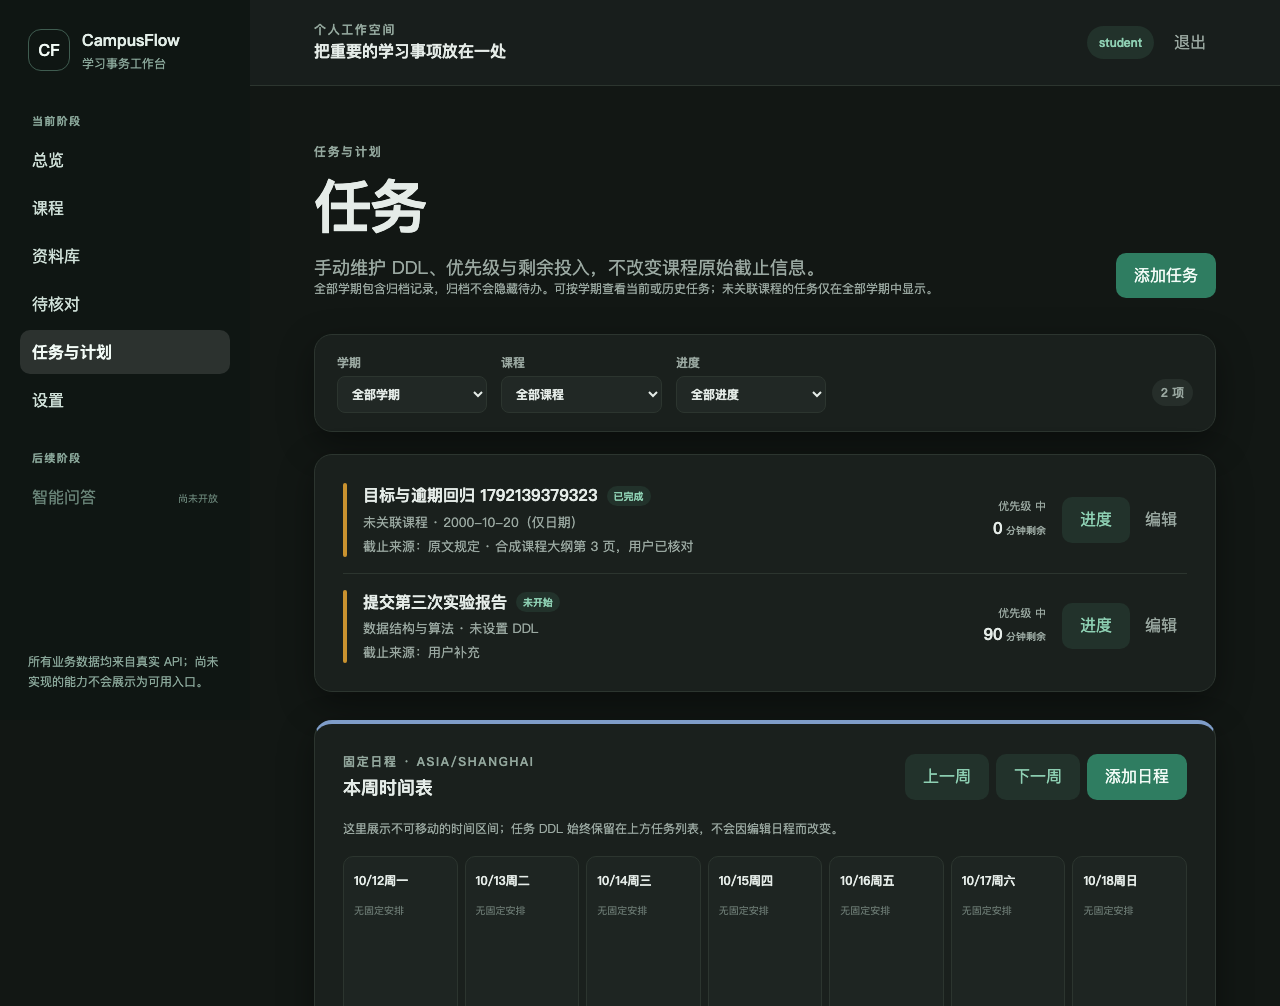
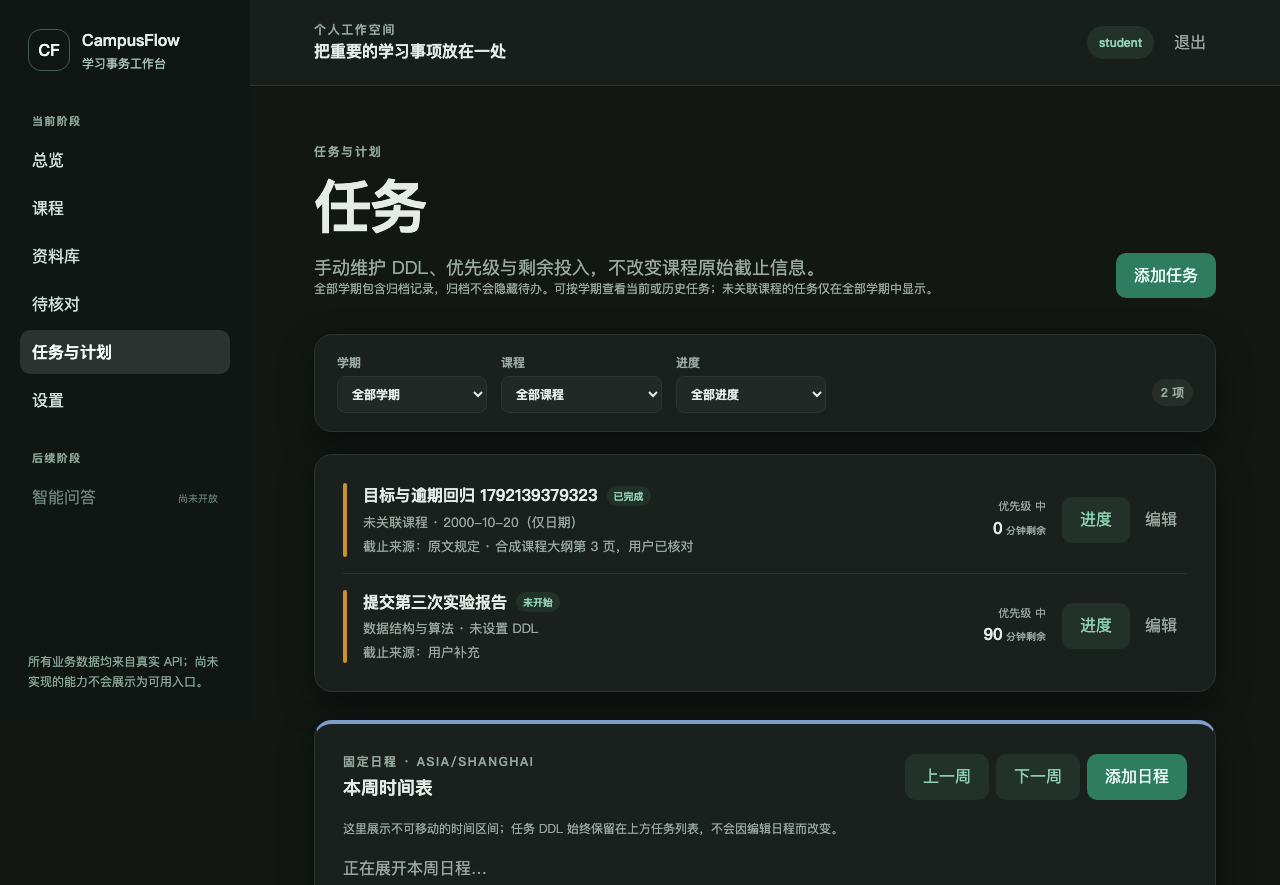
fix(U011): 保留浅色原始取值，拆分被并入的 6 处近似色
机械比对 develop 原 styles.css 的 60 个颜色字面量后，发现 6 处近似色被并入共享
token 会改变浅色观感（尤其失败态 #a83225 与 #814835 差异明显）。新增
--brand-mark-border/--sidebar-brand-sub/--surface-segmented/--warn-strong-ink/
--danger-strong-ink/--danger-bg-button 六个 token 并回填，浅色取值恢复与原文逐字一致。
同时按新配色重生成深色截图。

diff --git a/frontend/src/styles.css b/frontend/src/styles.css
@@ -68,10 +68,18 @@
   --sidebar-ink: #eef6f1;
   --sidebar-item: #dcebe5;
   --sidebar-muted: #91ada2;
+  --sidebar-brand-sub: #abc2b9;
   --sidebar-disabled: #78968a;
   --sidebar-border: #83a597;
   --sidebar-hover: rgba(255, 255, 255, .07);
   --sidebar-active: rgba(255, 255, 255, .13);
+
+  /* 以下 token 用于保留原本各自独立的少量色值，避免并入近似色后改变浅色观感。 */
+  --brand-mark-border: #85a79a;
+  --surface-segmented: #f4f6f1;
+  --warn-strong-ink: #8a5a12;
+  --danger-strong-ink: #a83225;
+  --danger-bg-button: #fff1ec;
 }
 
 :root[data-theme="dark"] {
@@ -134,10 +142,17 @@
   --sidebar-ink: #e3eee8;
   --sidebar-item: #cfe0d8;
   --sidebar-muted: #8aa79a;
+  --sidebar-brand-sub: #a8c3b8;
   --sidebar-disabled: #6a8579;
   --sidebar-border: #3f5c50;
   --sidebar-hover: rgba(255, 255, 255, .06);
   --sidebar-active: rgba(255, 255, 255, .12);
+
+  --brand-mark-border: #4e7a68;
+  --surface-segmented: #232b27;
+  --warn-strong-ink: #e0b56a;
+  --danger-strong-ink: #f19d84;
+  --danger-bg-button: #2f1f19;
 }
 
 * { box-sizing: border-box; }
@@ -150,7 +165,7 @@ a { color: inherit; }
 .brand { display: flex; gap: 12px; align-items: center; text-decoration: none; margin: 0 8px 40px; }
 .brand-mark { display: grid; place-items: center; width: 42px; height: 42px; border: 1px solid var(--sidebar-border); border-radius: 13px; font-weight: 800; color: var(--on-brand-fill); }
 .brand strong, .brand small { display: block; }
-.brand small { color: var(--sidebar-muted); font-size: 12px; }
+.brand small { color: var(--sidebar-brand-sub); font-size: 12px; }
 .nav-label { margin: 0 12px 8px; color: var(--sidebar-muted); font-size: 11px; font-weight: 800; letter-spacing: .12em; }
 .nav-label-spaced { margin-top: 28px; }
 .nav-item { min-height: 44px; display: flex; align-items: center; justify-content: space-between; gap: 8px; margin: 4px 0; padding: 9px 12px; border-radius: 10px; text-decoration: none; color: var(--sidebar-item); }
@@ -194,7 +209,7 @@ button:focus-visible, a:focus-visible { outline: 3px solid var(--accent); outlin
 .login-card input { width: 100%; padding: 11px 12px; border: 1px solid var(--line-strong); border-radius: 9px; color: var(--ink); background: var(--paper-strong); }
 .login-card input:focus { outline: 3px solid var(--focus-ring); border-color: var(--brand); }
 .login-brand { display: flex; align-items: center; gap: 10px; margin-bottom: 32px; color: var(--brand); }
-.login-brand .brand-mark { color: var(--brand); border-color: var(--brand-border); }
+.login-brand .brand-mark { color: var(--brand); border-color: var(--brand-mark-border); }
 .inline-notice { padding: 10px 12px; border-radius: 8px; color: var(--warn-ink); background: var(--warn-bg-soft); }
 .form-error { margin: 0; color: var(--danger); font-size: 14px; }
 .two-column-layout { display: grid; grid-template-columns: minmax(0, 1.35fr) minmax(280px, .65fr); gap: 22px; }
@@ -246,7 +261,7 @@ button:focus-visible, a:focus-visible { outline: 3px solid var(--accent); outlin
 .task-title-line h3 { margin: 0; font-size: 16px; }
 .task-main p { margin: 3px 0 0; color: var(--muted); font-size: 13px; }
 .status-pill { padding: 2px 7px; border-radius: 999px; color: var(--brand); background: var(--brand-soft); font-size: 10px; font-weight: 800; }
-.overdue-pill { color: var(--danger-ink-soft); background: var(--danger-bg-soft); }
+.overdue-pill { color: var(--danger-strong-ink); background: var(--danger-bg-soft); }
 .task-meta { min-width: 108px; display: grid; text-align: right; }
 .task-meta span { color: var(--muted); font-size: 11px; }
 .task-meta strong { font-size: 16px; }
@@ -276,7 +291,7 @@ button:focus-visible, a:focus-visible { outline: 3px solid var(--accent); outlin
 .definition-list article { display: flex; align-items: center; justify-content: space-between; padding: 9px 0; border-bottom: 1px solid var(--line); }
 .definition-list article span { display: flex; align-items: center; gap: 8px; }
 .definition-list small { color: var(--muted); }
-.danger-button { padding: 7px 10px; color: var(--danger); background: var(--danger-bg-soft); }
+.danger-button { padding: 7px 10px; color: var(--danger); background: var(--danger-bg-button); }
 .settings-layout { grid-template-columns: repeat(2, minmax(0, 1fr)); }
 .success-message { margin: 0; color: var(--brand); font-size: 13px; }
 .availability-grid { display: grid; grid-template-columns: repeat(auto-fill, minmax(200px, 1fr)); gap: 10px; }
@@ -322,7 +337,7 @@ button:focus-visible, a:focus-visible { outline: 3px solid var(--accent); outlin
 .status-banner.success { color: var(--brand); background: var(--brand-soft); }
 .status-banner.failed { color: var(--danger-ink-soft); background: var(--danger-bg); }
 .status-banner.failed p { color: var(--danger-ink-soft); }
-.segmented { display: inline-flex; gap: 4px; padding: 4px; border: 1px solid var(--line); border-radius: 999px; background: var(--surface-soft); }
+.segmented { display: inline-flex; gap: 4px; padding: 4px; border: 1px solid var(--line); border-radius: 999px; background: var(--surface-segmented); }
 .segmented-item { padding: 7px 14px; border-radius: 999px; color: var(--muted); background: transparent; font-size: 13px; font-weight: 700; }
 .segmented-item.is-active { color: var(--on-brand-fill); background: var(--brand-fill); }
 .upload-results { display: grid; gap: 8px; margin: 18px 0 0; padding: 0; list-style: none; }
@@ -338,8 +353,8 @@ button:focus-visible, a:focus-visible { outline: 3px solid var(--accent); outlin
 .coverage-box.failed { border-color: var(--danger-border); border-left-color: var(--danger); background: var(--danger-bg); }
 .coverage-box.failed p { color: var(--danger-ink-soft); }
 .status-pill[data-status="pending"], .status-pill[data-status="processing"] { color: var(--info-ink); background: var(--info-bg); }
-.status-pill[data-status="partial"] { color: var(--warn-chip-ink); background: var(--accent-soft); }
-.status-pill[data-status="failed"], .failed-pill { color: var(--danger-ink-soft); background: var(--danger-bg-soft); }
+.status-pill[data-status="partial"] { color: var(--warn-strong-ink); background: var(--accent-soft); }
+.status-pill[data-status="failed"], .failed-pill { color: var(--danger-strong-ink); background: var(--danger-bg-soft); }
 .archived-pill { color: var(--neutral-ink); background: var(--neutral-bg); }
 .duplicate-pill { color: var(--warn-chip-ink); background: var(--warn-chip-bg); }
 
@@ -364,7 +379,7 @@ button:focus-visible, a:focus-visible { outline: 3px solid var(--accent); outlin
 .field-review p { margin: 0; color: var(--muted); font-size: 13px; }
 .origin-pill[data-origin="document"] { color: var(--brand); background: var(--brand-soft); }
 .origin-pill[data-origin="user"] { color: var(--info-ink); background: var(--info-bg); }
-.origin-pill[data-origin="inferred"] { color: var(--warn-chip-ink); background: var(--accent-soft); }
+.origin-pill[data-origin="inferred"] { color: var(--warn-strong-ink); background: var(--accent-soft); }
 .origin-pill[data-origin="suggestion"] { color: var(--neutral-ink); background: var(--neutral-bg); }
 .evidence-list { display: grid; gap: 8px; margin-top: 4px; }
 .evidence-quote { margin: 0; padding: 10px 12px; border-left: 3px solid var(--brand-border); border-radius: 8px; background: var(--surface-muted); }
@@ -372,7 +387,7 @@ button:focus-visible, a:focus-visible { outline: 3px solid var(--accent); outlin
 .evidence-quote blockquote { margin: 0; color: var(--ink); font-size: 13px; }
 .evidence-caption { display: flex; justify-content: space-between; align-items: center; gap: 10px; margin-top: 6px; color: var(--muted); font-size: 11px; }
 .verified-pill { color: var(--brand); background: var(--brand-soft); }
-.stale-pill { color: var(--danger-ink-soft); background: var(--danger-bg-soft); }
+.stale-pill { color: var(--danger-strong-ink); background: var(--danger-bg-soft); }
 
 /* 字段修正与生成正式事项（R009）；.is-highlighted 供核对确认后的跳转定位使用 */
 .correction-form { margin-top: 4px; padding: 12px 14px; border: 1px solid var(--line); border-radius: 10px; background: var(--surface-muted); }
